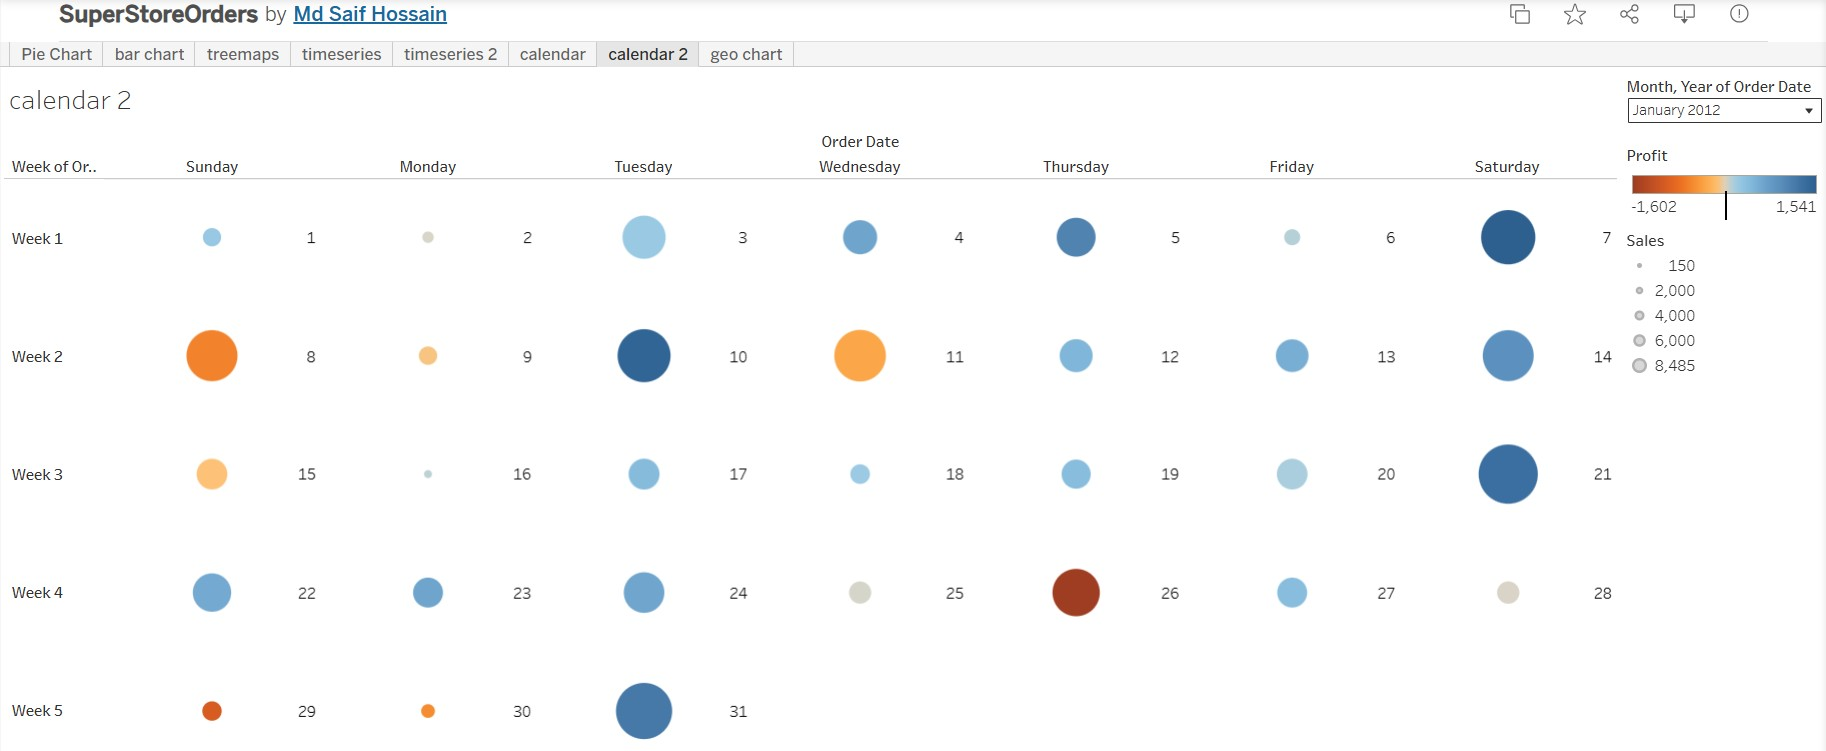
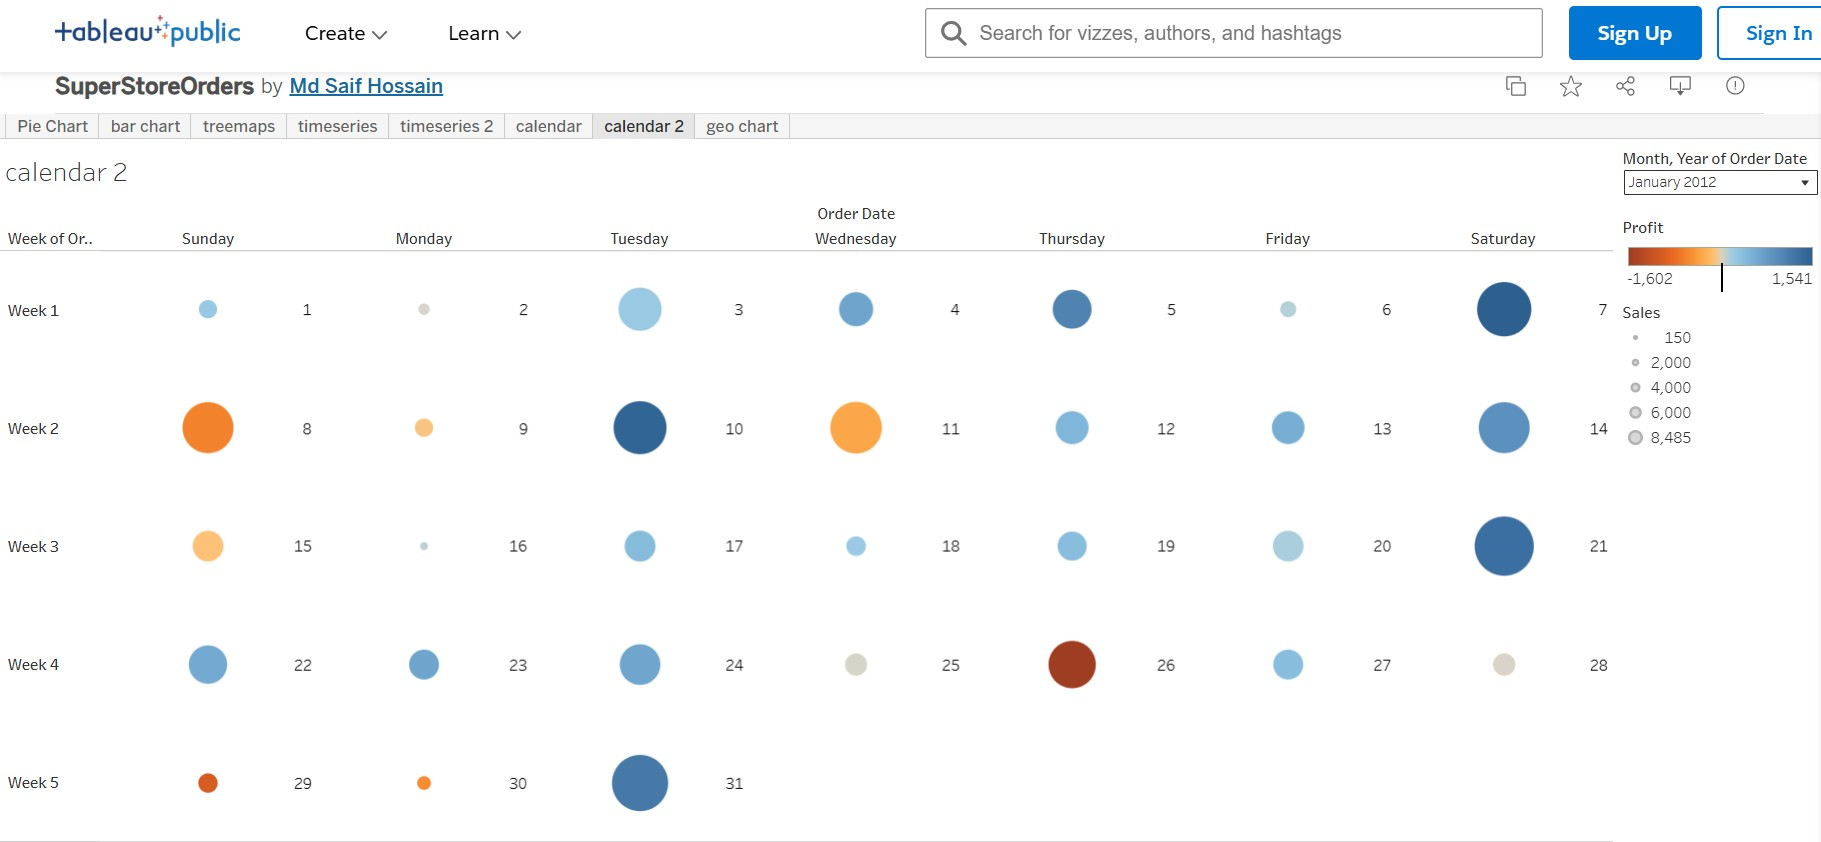
Update

diff --git a/project.html b/project.html
@@ -280,6 +280,25 @@
 							<div class="cat">ML</div>
 						</div>
 					</div>
+
+					<div class="single-portfolio col-sm-3 all data_science">
+						<div class="portfolio-item">
+							<div class="portfolio-img overflow-hidden">
+								<img class="img-rectangular" src="images\img_projects\tableau_SuperStoreData.jpg" alt="" title="Super Store Data Analysis">
+								<div class="portfolio-btn">
+									<a class="btn btn-outline-light mx-2" target="_blank" href="https://public.tableau.com/app/profile/md.saif.hossain/viz/SuperStoreOrders_17394321117480/barchart?publish=yes">
+										Code&nbsp;<i class="iconify" data-icon="mdi:link" style="font-size: 17px;"></i></a>
+									<a class="btn btn-outline-light mx-2" target="_blank" href="https://public.tableau.com/app/profile/md.saif.hossain/viz/SuperStoreOrders_17394321117480/barchart?publish=yes">
+										Live&nbsp;<i class="iconify" data-icon="mdi:eye" style="font-size: 16px;"></i></a>
+								</div>
+							</div>
+						</div>
+						<div class="p-inner" style="width: 100%; height: 50px;">
+							<a href=" " target="_blank">
+							<h4>Super Store Data Analysis</h4></a>
+							<div class="cat">Data Science</div>
+						</div>
+					</div>
 <!--
 					<div class="single-portfolio col-sm-3 all">
 						<div class="relative">

diff --git a/css/style.css b/css/style.css
@@ -628,7 +628,7 @@ a:active {
   color: #fe6845;
 }
 .data_science h4{
-  color: #eebb4d;
+  color: #f2d494;
 }
 .robotics h4{
   color: lime;
